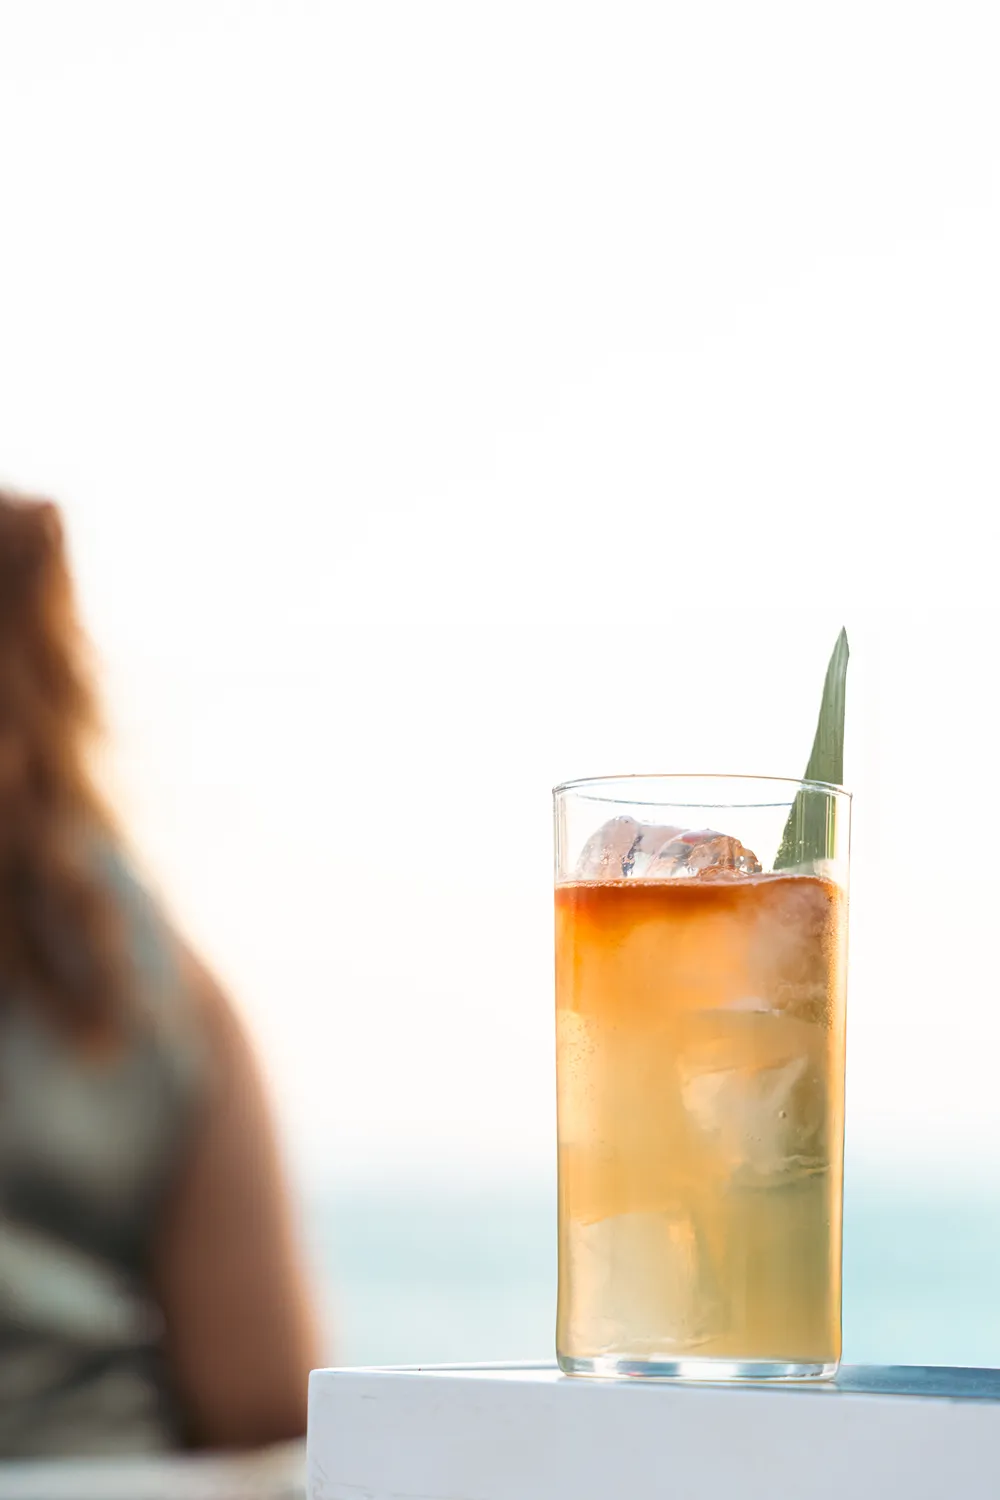
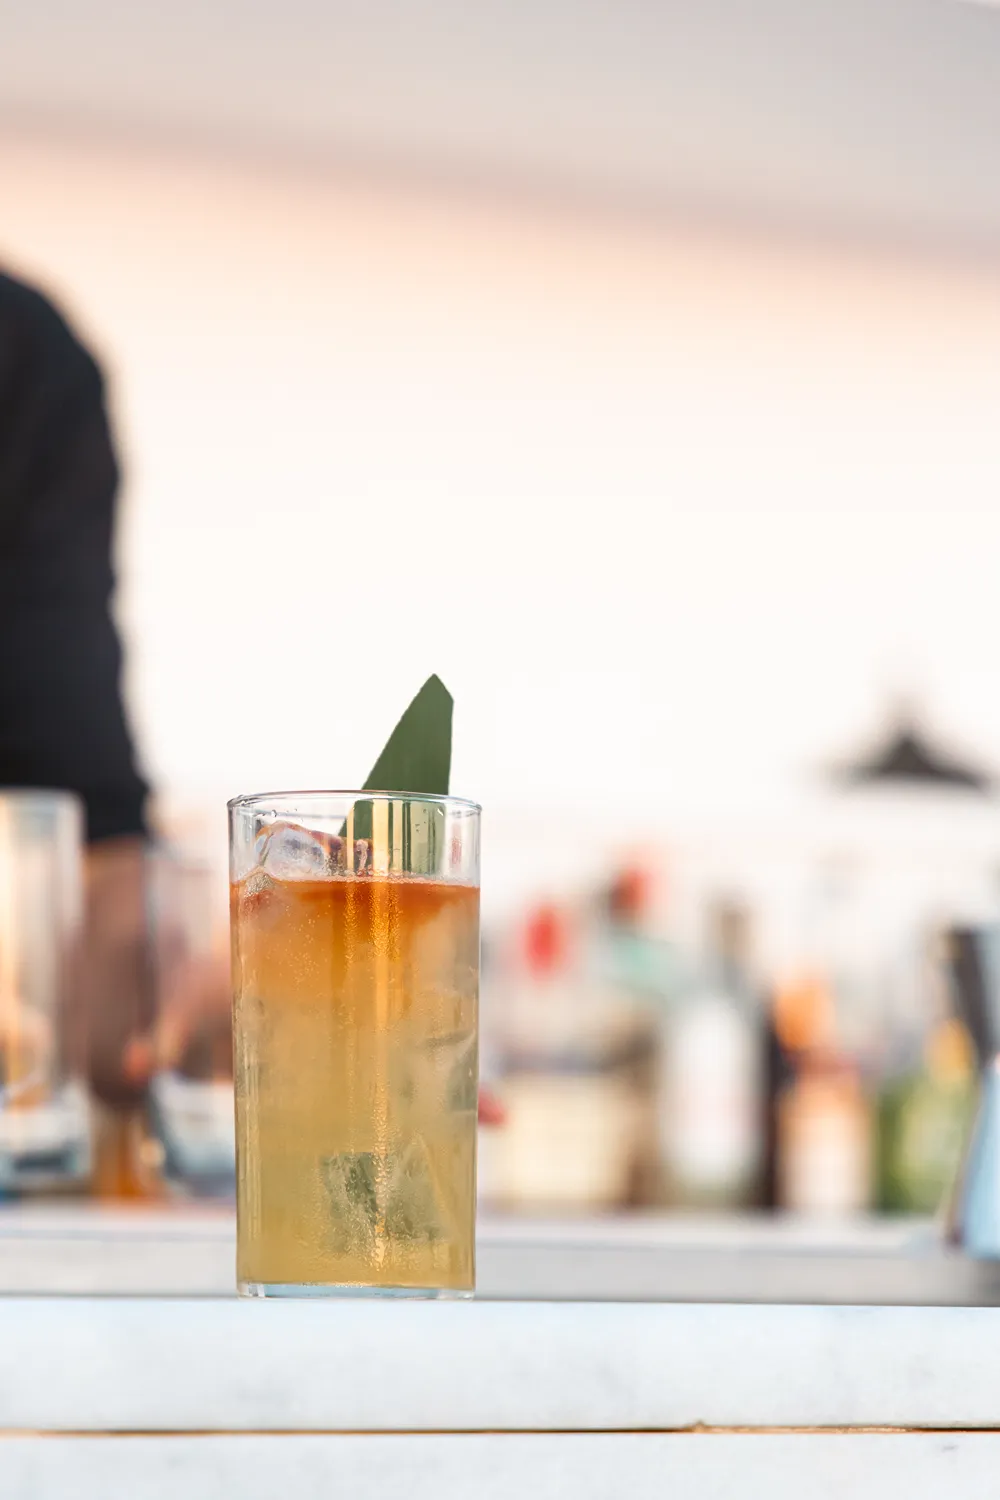
Ingredients page .2.0

diff --git a/ingredients.html b/ingredients.html
@@ -38,8 +38,8 @@
                         <p class="p-section-description">At Bebop x Joomla, we take pride in sourcing the freshest and highest quality ingredients for our dishes. Our commitment to excellence ensures that every bite is a delightful experience.</p>
                     </div>
                     <div class="ingredients-visual-column">
-                        <img src="media/bebop-joomla-ingredients-image1.webp" alt="Fresh ingredients used in Bebop x Joomla dishes" loading="lazy">
-                        <img src="media/bebop-joomla-ingredients-image2.webp" alt="Fresh ingredients used in Bebop x Joomla dishes" loading="lazy">
+                        <img src="media/bebop-joomla-ingredients-image1.webp" alt="Fresh ingredients used in Bebop x Joomla dishes" loading="lazy" class="ingredients-image1">
+                        <img src="media/bebop-joomla-ingredients-image2.webp" alt="Fresh ingredients used in Bebop x Joomla dishes" loading="lazy" class="ingredients-image2">
                     </div>
                     </div>
                 </section>
@@ -47,16 +47,30 @@
             <section class="cocktails-section">
                <div class="row-container" id="cocktails-row">
                 <div class="cocktails-visual-column">
-                    <img src="media/bebop-joomla-cocktail1.webp" alt="Cocktails served at Bebop x Joomla" loading="lazy">
-                    <img src="media/bebop-joomla-cocktail2.webp" alt="Cocktails served at Bebop x Joomla" loading="lazy">
+                    <img src="media/bebop-joomla-cocktail1.webp" alt="Cocktails served at Bebop x Joomla" loading="lazy" class="cocktails-image1">
+                    <img src="media/bebop-joomla-cocktail2.webp" alt="Cocktails served at Bebop x Joomla" loading="lazy" class="cocktails-image2">
                 </div>
                 <div class="cocktails-info-column">
                     <h2 class="h2-section-title"> 02 - The Bar</h2>
                     <p class="p-section-title">A Symphony of Flavors</p>
                     <p class="p-section-description">Our cocktail menu is crafted with precision and creativity, offering a diverse selection of drinks that complement our culinary offerings. From classic favorites to innovative creations, our cocktails are designed to enhance your dining experience.</p> 
-                    <img src="media/bebop-joomla-cocktail3.webp" alt="Cocktails served at Bebop x Joomla" loading="lazy">    
+                    <img src="media/bebop-joomla-cocktail3.webp" alt="Cocktails served at Bebop x Joomla" loading="lazy" class="cocktails-image3">
                 </div>
                </div>
+            </section>
+
+            <section class="ingredients-cta">
+                <div class="row-container ingredients-cta-row">
+                    <h2 class="h2-section-title"> The full card</h2>
+                    <p class="p-section-title">Every plate, every pour — in one menu.</p>
+                    <p class="p-section-description">Browse the complete Sushi kitchen and the signature cocktail list before you arrive.
+
+</p>
+                    <div class="hero-actions">
+                            <a class="button button-primary" href="https://menu.bebopjoomla.gr/dinner/">VIEW THE MENU</a>
+                            
+                        </div>
+                </div>
             </section>
 
 

diff --git a/styles.css b/styles.css
@@ -1203,12 +1203,53 @@ font-size: 0.8rem;
     
 }
 
+@media (max-width: 1024px) {
+    #ingredients-row {
+        grid-template-columns: 1fr;
+        gap: 34px;
+    }
+}
+
+
+
+.ingredients-info-column {
+    margin-top:auto;
+    margin-bottom:auto;
+}
+
 .ingredients-visual-column {
     display:grid;
     grid-template-columns: 1fr 1fr;
    
 }
 
+
+
+.ingredients-image1 {
+    width:300px;
+    height:400px;
+    overflow:hidden;
+    object-fit:cover;
+    object-position:center;
+}
+
+.ingredients-image2 {
+    width:300px;
+    height:400px;
+    overflow:hidden;
+    object-fit:cover;
+    object-position:center;
+    margin-top:40px;
+}
+
+
+
+.cocktails-section {
+    
+    background-color: var(--color-background);
+    border-top: 1px solid var(--color-border);
+    border-bottom: 1px solid var(--color-border);
+}
 
 #cocktails-row {
   display:grid;
@@ -1222,8 +1263,56 @@ font-size: 0.8rem;
 .cocktails-visual-column {
     display:grid;
     grid-template-columns: 1fr 1fr;
+    margin-top:auto;
+    margin-bottom:auto;
    
 }
+
+@media (max-width: 1024px) {
+    #cocktails-row {
+        grid-template-columns: 1fr;
+        gap: 34px;
+    }
+
+    #cocktails-row .cocktails-info-column {
+        order: 1;
+    }
+
+    #cocktails-row .cocktails-visual-column {
+        order: 2;
+    }
+}
+
+.cocktails-image1 {
+    width:300px;
+    height:400px;
+    overflow:hidden;
+    object-fit:cover;
+    object-position:center;
+    margin-top:40px;
+}
+.cocktails-image2 {
+    width:300px;
+    height:400px;
+    overflow:hidden;
+    object-fit:cover;
+    object-position:center;
+    
+}
+
+
+.ingredients-cta-row {
+    display:flex;
+    flex-direction:column;
+    justify-content:center;
+    text-align:center;
+    align-items:center;
+    padding:5% 0;
+  
+
+}
+   
+
 
 
 
